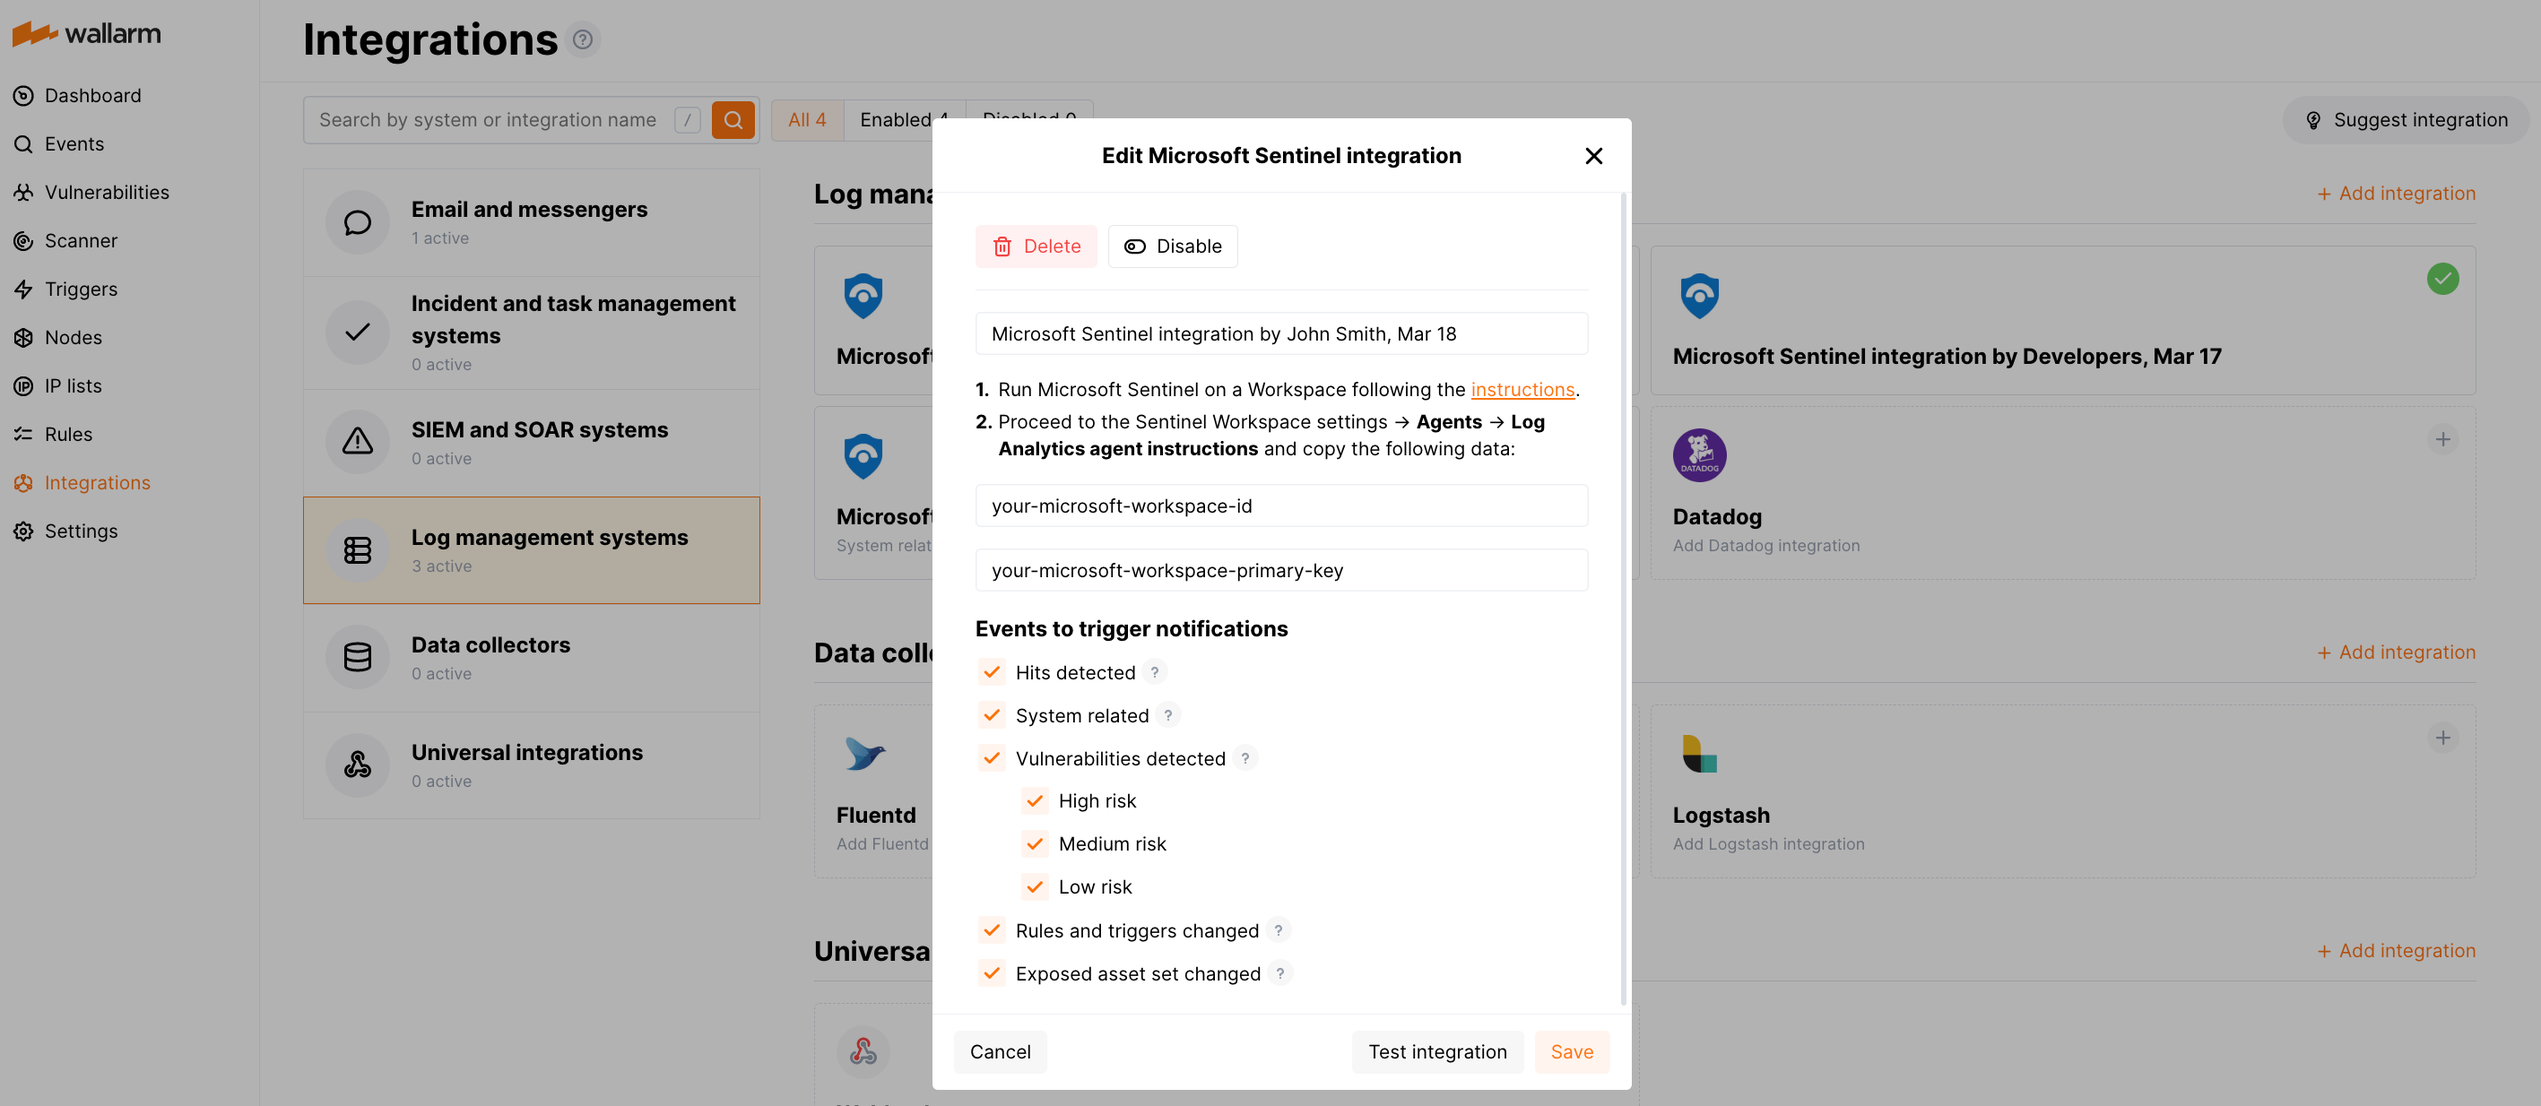
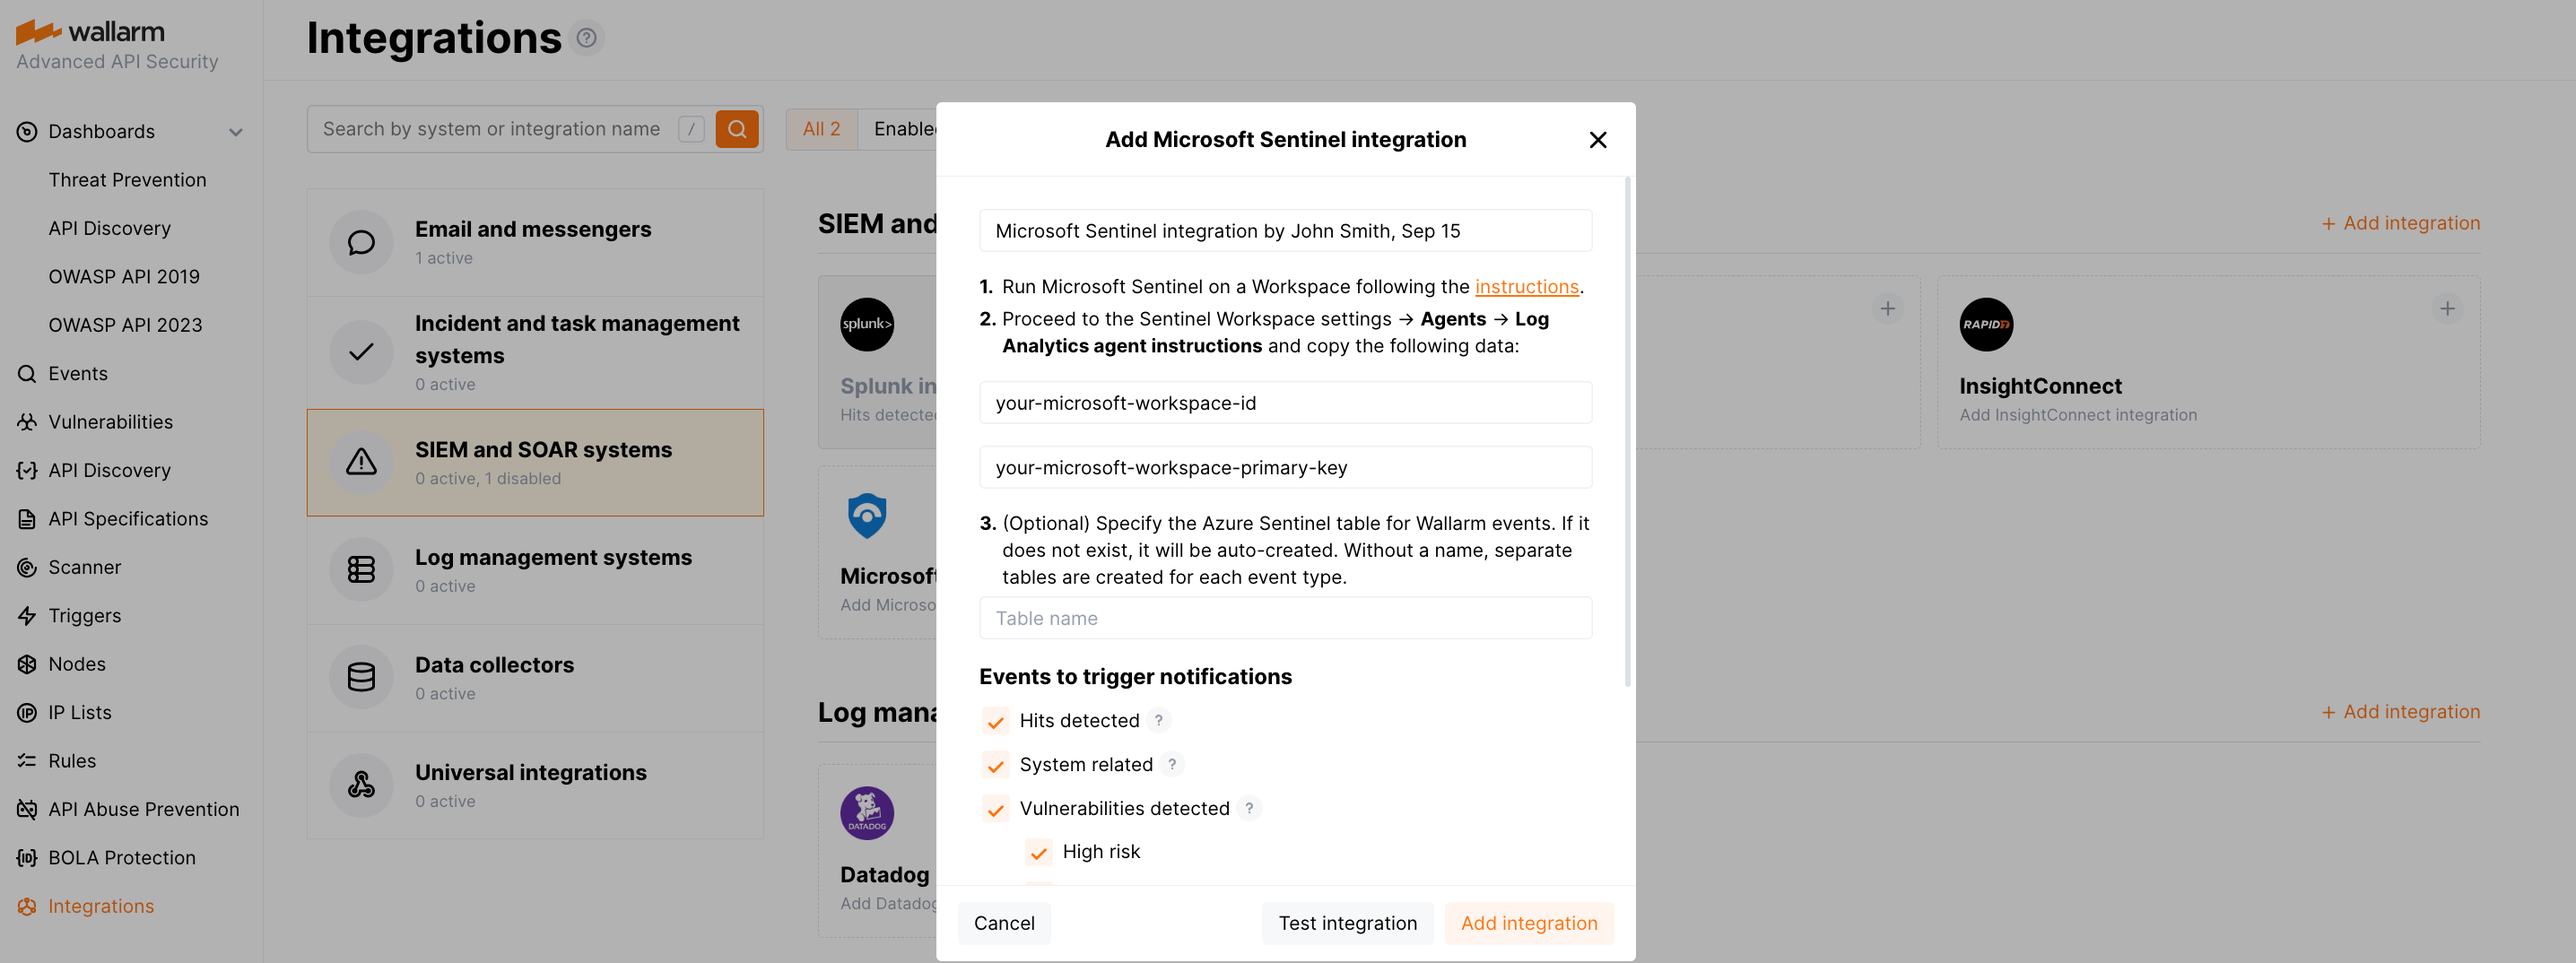
DOCS-2252 update the sentinel documentation with the table setup

diff --git a/docs/latest/user-guides/settings/integrations/azure-sentinel.md b/docs/latest/user-guides/settings/integrations/azure-sentinel.md
@@ -20,6 +20,9 @@ In the Wallarm Console UI:
 1. Click the **Microsoft Sentinel** block or click the **Add integration** button and choose **Microsoft Sentinel**.
 1. Enter an integration name.
 1. Paste the copied Workspace ID and Primary key.
+1. Optionally, specify the Azure Sentinel table for Wallarm events. If it does not exist, it will be auto-created. 
+
+    Without a name, separate tables are created for each event type.
 1. Choose event types to be logged in Microsoft Sentinel. If the events are not chosen, then logs will not be sent.
 1. [Test the integration](#testing-integration) and make sure the settings are correct.
 
